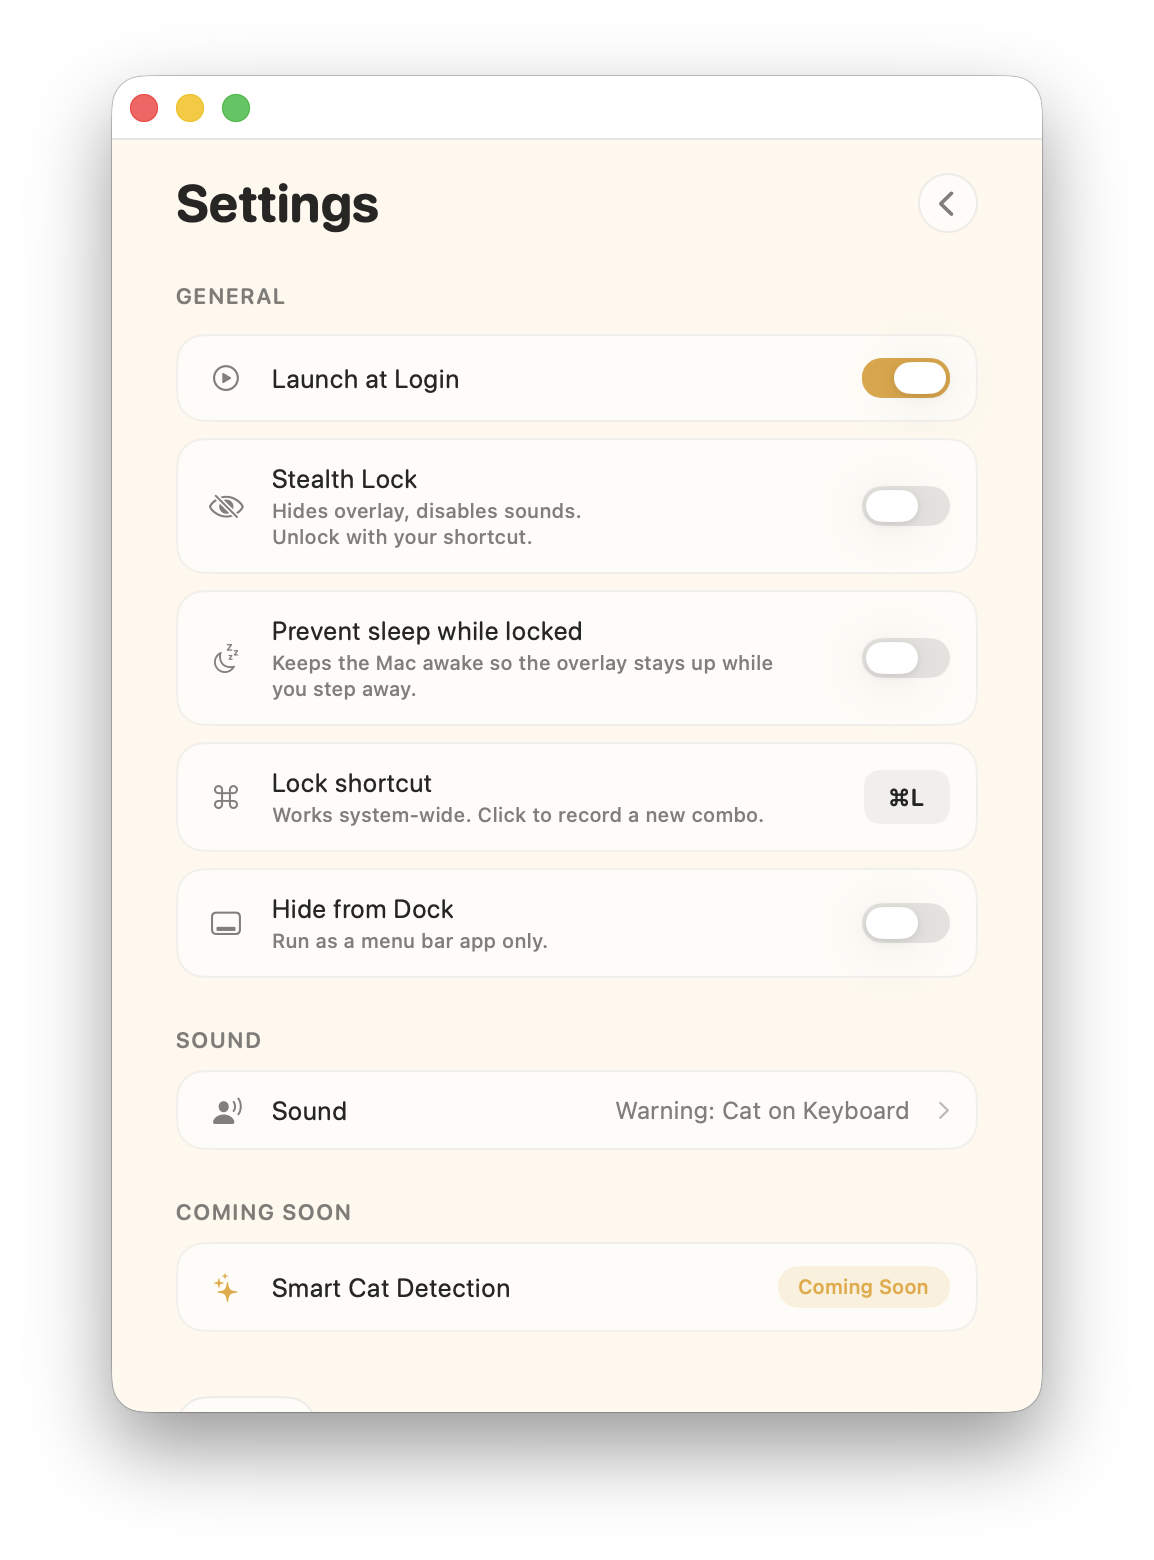
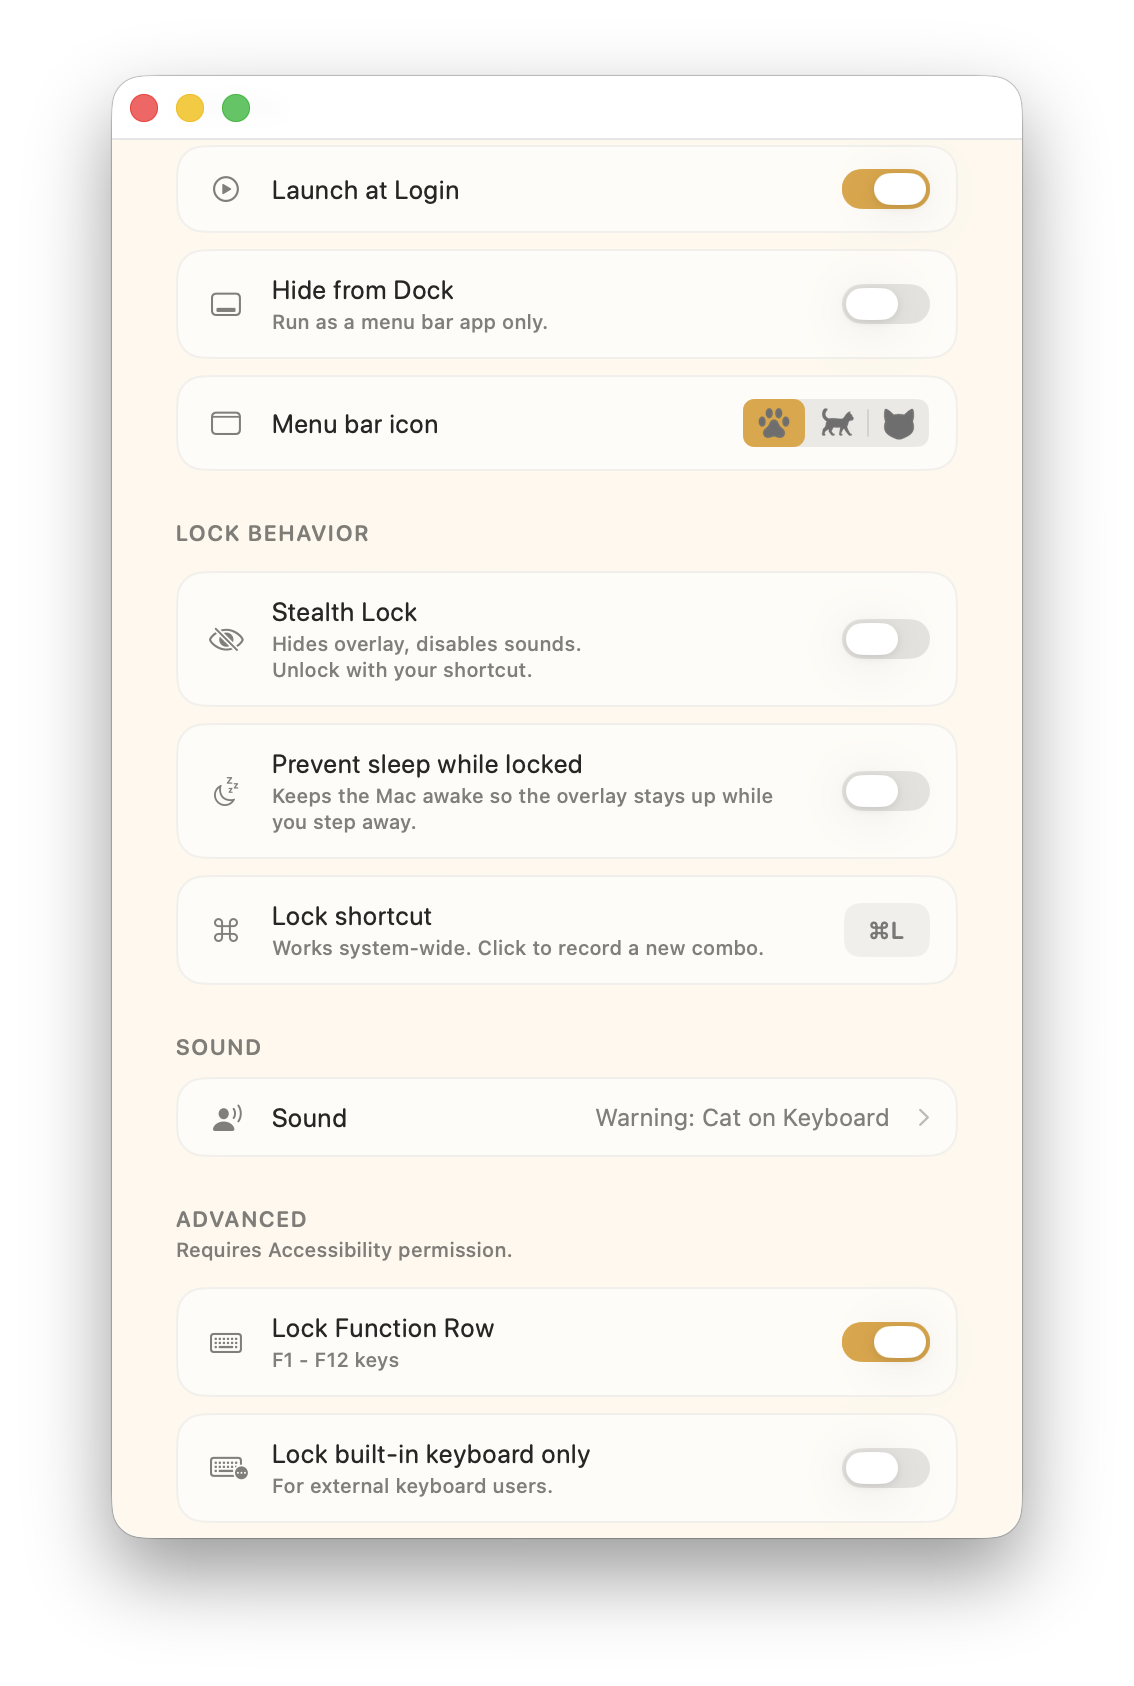
Site prep for v1.3.0 (staged — not live until App Store approval)
- Press: feature the built-in keyboard lock in Short/Medium/Long About blurbs
  (effect only); fix permission line to list both opt-in Accessibility features.
- Press: replace promo tiles with the 6 branded shots; refresh raw UI
  screenshots with new demo captions/dimensions.
- Releases: add v1.3.0 entry (built-in lock + new icon), credit Steffen.
- Roadmap: move built-in lock to Shipped; advance "Up next" to v1.4.
- Version bumped to 1.3.0 across pages; release date left as [LIVE DATE]
  placeholder to fill on approval.

diff --git a/press.html b/press.html
@@ -266,7 +266,7 @@
     </div>
     <div class="fact">
       <div class="label">Latest version</div>
-      <div class="value">1.2.1 (June 11, 2026)</div>
+      <div class="value">1.3.0 ([LIVE DATE])</div>
     </div>
     <div class="fact">
       <div class="label">Platform</div>
@@ -300,20 +300,21 @@
 
   <h3>Short (50 words)</h3>
   <div class="copy-block">
-    <p>Cats Lock is a Mac desktop app that blocks your keyboard with a customizable global shortcut so your cat can walk on it without sending chaos into your work. A friendly overlay shows when locked; Stealth Lock keeps it silent and invisible for meetings. $2.99 one-time, sandboxed, no subscriptions.</p>
+    <p>Cats Lock blocks your Mac's keyboard with a customizable global shortcut so your cat can walk on it without derailing your work. New: lock just the laptop's built-in keyboard while you keep typing on an external. Stealth Lock stays silent for meetings. $2.99 one-time, sandboxed, no subscriptions.</p>
   </div>
 
   <h3>Medium (150 words)</h3>
   <div class="copy-block">
-    <p>Cats Lock is a Mac desktop app for people who share a desk with a cat. A customizable global shortcut (default ⌘L) locks the keyboard from any app, so your cat can settle in for a nap, walk across the keys, or knead the trackpad without sending chaos into your active document. A friendly overlay appears while locked, and a customizable warning sound plays on each blocked keypress so you can hear from the next room when your cat has joined the keyboard. Stealth Lock keeps the lock silent and invisible for meetings or recordings. Optional toggles hide the app from the Dock for menu-bar-only use, and prevent the Mac from sleeping while locked so the overlay stays visible while you step away. Fully sandboxed for the Mac App Store, no account, no analytics, $2.99 one-time. Built by indie developer Todd Alexander for him and his cat to enjoy.</p>
+    <p>Cats Lock is a Mac desktop app for people who share a desk with a cat. A customizable global shortcut (default ⌘L) locks the keyboard from any app, so your cat can settle in for a nap, walk across the keys, or knead the trackpad without sending chaos into your active document. New in version 1.3: if you work on an external keyboard, you can lock just the laptop's built-in keyboard so the cat can claim the warm MacBook while you keep typing, and it unlocks automatically when you unplug the external. A friendly overlay and a customizable warning sound mark each blocked keypress; Stealth Lock keeps the lock silent and invisible for meetings. Optional toggles hide the app from the Dock and prevent the Mac from sleeping while locked. Fully sandboxed for the Mac App Store, no account, no analytics, $2.99 one-time. Built by indie developer Todd Alexander for him and his cat to enjoy.</p>
   </div>
 
   <h3>Long (300 words)</h3>
   <div class="copy-block">
     <p>Cats Lock is a Mac desktop app for people who share a desk with a cat. The interaction is intentionally minimal: one press of a customizable global shortcut (default ⌘L) locks the keyboard from any app, so your cat can stretch out, walk across the keys, or settle in for a nap without sending anything into your active document. While locked, a friendly full-screen overlay shows the lock state, and a customizable warning sound plays on each blocked keypress. Useful as an audible cue from the next room when your cat has joined the keyboard while you're away from the desk, or just pure enjoyable and shareable content.</p>
     <p>Stealth Lock mode swaps that experience for a silent, invisible variant. The keyboard is still blocked, but no overlay appears and no sound plays, which is helpful if you want to lock the keyboard during a meeting, recording, or call without any visual or audio side effect. Unlock always uses the configured shortcut.</p>
+    <p>Version 1.3 adds an external-keyboard mode for a common setup: a laptop on a desk with a separate keyboard and mouse. Turn on Lock built-in keyboard only, and your shortcut locks just the MacBook's own keyboard while the external keeps working, with no overlay and no sound. It is built for the moment a cat decides the warm laptop is the best seat in the house, letting it settle on the built-in keys while you keep working. The mode appears only when an external keyboard is connected, and the built-in unlocks immediately if that keyboard is unplugged, so you are never locked out of your own Mac.</p>
     <p>Two optional toggles round out the experience: Hide from Dock turns Cats Lock into a pure menu-bar app with no Dock icon and no Cmd+Tab presence, and Prevent Sleep While Locked holds the display awake so the overlay stays visible if you step away from the desk. Launch at Login is supported through the system service so the menu bar icon is ready when your Mac boots.</p>
-    <p>Cats Lock is built fully within the App Store sandbox, with no analytics SDK, no account creation, and no telemetry. The core lock needs no special permissions; the only feature that requests Accessibility is optional function-key locking, which stays off unless the user turns it on. It is sold for $2.99 as a one-time purchase with no subscription tier and no upsells. The app launched on the Mac App Store on May 15, 2026.</p>
+    <p>Cats Lock is built fully within the App Store sandbox, with no analytics SDK, no account creation, and no telemetry. The core lock needs no special permissions; the only features that request Accessibility are the optional function-key lock and the built-in-keyboard lock, both of which stay off unless the user turns them on. It is sold for $2.99 as a one-time purchase with no subscription tier and no upsells. The app launched on the Mac App Store on May 15, 2026.</p>
   </div>
 </section>
 
@@ -362,25 +363,29 @@
   <h2>Promo tiles</h2>
   <p style="color: var(--muted); margin: -8px 0 18px;">Branded 16:10 hero images for article leads, App Store roundups, and social previews.</p>
   <div class="screens">
-    <a class="screen" href="assets/screenshots/01-hero.png" download>
-      <img src="assets/screenshots/01-hero.png" alt="Cats Lock main window, unlocked">
-      <div class="meta">01 · Main window (unlocked) · 2880×1800</div>
+    <a class="screen" href="assets/press/tiles/promo-01.png" download>
+      <img src="assets/press/tiles/promo-01.png" alt="Cats Lock promo — Lock the keys, love the cat">
+      <div class="meta">01 · Hero · 2880×1800</div>
     </a>
-    <a class="screen" href="assets/screenshots/02-settings.png" download>
-      <img src="assets/screenshots/02-settings.png" alt="Cats Lock settings panel">
-      <div class="meta">02 · Settings · 2880×1800</div>
+    <a class="screen" href="assets/press/tiles/promo-02.png" download>
+      <img src="assets/press/tiles/promo-02.png" alt="Cats Lock promo — standard lock, keep the Mac awake">
+      <div class="meta">02 · Standard lock · 2880×1800</div>
     </a>
-    <a class="screen" href="assets/screenshots/03-sound.png" download>
-      <img src="assets/screenshots/03-sound.png" alt="Sound picker">
-      <div class="meta">03 · Sound picker · 2880×1800</div>
+    <a class="screen" href="assets/press/tiles/promo-03.png" download>
+      <img src="assets/press/tiles/promo-03.png" alt="Cats Lock promo — Stealth Lock">
+      <div class="meta">03 · Stealth Lock · 2880×1800</div>
     </a>
-    <a class="screen" href="assets/screenshots/04-overlay.png" download>
-      <img src="assets/screenshots/04-overlay.png" alt="Locked overlay">
-      <div class="meta">04 · Locked overlay · 2880×1800</div>
+    <a class="screen" href="assets/press/tiles/promo-04.png" download>
+      <img src="assets/press/tiles/promo-04.png" alt="Cats Lock promo — lock the built-in keyboard">
+      <div class="meta">04 · Built-in keyboard lock · 2880×1800</div>
     </a>
-    <a class="screen" href="assets/screenshots/05-menubar.png" download>
-      <img src="assets/screenshots/05-menubar.png" alt="Menu bar dropdown">
-      <div class="meta">05 · Menu bar · 2880×1800</div>
+    <a class="screen" href="assets/press/tiles/promo-05.png" download>
+      <img src="assets/press/tiles/promo-05.png" alt="Cats Lock promo — lives in the menu bar">
+      <div class="meta">05 · Lives in the menu bar · 2880×1800</div>
+    </a>
+    <a class="screen" href="assets/press/tiles/promo-06.png" download>
+      <img src="assets/press/tiles/promo-06.png" alt="Cats Lock promo — your lock, your way">
+      <div class="meta">06 · Your lock, your way · 2880×1800</div>
     </a>
   </div>
 </section>
@@ -395,7 +400,7 @@
     </a>
     <a class="screen" href="assets/press/raw/02-settings.png" download>
       <img src="assets/press/raw/02-settings.png" alt="Settings panel">
-      <div class="meta">02 · Settings · 1154×1560</div>
+      <div class="meta">02 · Settings · 1134×1686</div>
     </a>
     <a class="screen" href="assets/press/raw/03-sound.png" download>
       <img src="assets/press/raw/03-sound.png" alt="Sound picker">
@@ -407,7 +412,7 @@
     </a>
     <a class="screen" href="assets/press/raw/05-menubar.png" download>
       <img src="assets/press/raw/05-menubar.png" alt="Menu bar dropdown">
-      <div class="meta">05 · Menu bar · 512×650</div>
+      <div class="meta">05 · Menu bar · 629×678</div>
     </a>
   </div>
 </section>

diff --git a/roadmap.html b/roadmap.html
@@ -158,6 +158,7 @@
     <div class="stage-meta">Available now on the Mac App Store</div>
 
     <ul>
+      <li><strong>v1.3.0</strong> ([LIVE DATE]) — lock the built-in keyboard only while an external keeps working, plus a new app icon.</li>
       <li><strong>v1.2.1</strong> (June 11, 2026) — Cmd+Tab lock hardening, guaranteed Stealth Lock escape, smoother audio.</li>
       <li><strong>v1.2.0</strong> (June 8, 2026) — lock function keys (F1-F12), menu bar icon picker.</li>
       <li><strong>v1.1.2</strong> (June 2, 2026) — Siri voice command compatibility, refreshed app icon with proper Dark and Tinted appearance variants.</li>
@@ -170,16 +171,7 @@
   </article>
 
   <article class="stage">
-    <h2>Up next: v1.3</h2>
-    <div class="stage-meta">In progress — lock for real setups</div>
-
-    <ul>
-      <li><strong>Lock built-in keyboard only.</strong> Keep an external keyboard working while the built-in one is locked, so you can keep typing while the cat takes over the laptop. <span class="credit">Requested by Steffen, and echoed by a caller on Elliot In The Morning.</span></li>
-    </ul>
-  </article>
-
-  <article class="stage">
-    <h2>Future: v1.4</h2>
+    <h2>Up next: v1.4</h2>
     <div class="stage-meta">Add-on features: sharper locking and more delight</div>
 
     <ul>

diff --git a/releases.html b/releases.html
@@ -160,6 +160,21 @@
 <section>
 
   <article class="release">
+    <h2>v1.3.0</h2>
+    <div class="meta">[LIVE DATE]</div>
+
+    <h3>New</h3>
+    <ul>
+      <li><strong>Lock just the built-in keyboard.</strong> For people who work on an external keyboard: turn on Lock built-in keyboard only, then lock with your shortcut and only the laptop's built-in keys are blocked while your external keyboard keeps working, with no overlay and no sound. The built-in unlocks the moment you disconnect the external, so you are never stranded. The mode appears only when an external keyboard is connected, and it uses Accessibility permission (the same opt-in as Lock Function Row). <span class="credit">Thanks to Steffen for the request.</span></li>
+    </ul>
+
+    <h3>Improvements</h3>
+    <ul>
+      <li><strong>New app icon.</strong> A cleaner orange cat on a warm soft-sand background, with proper Dark and Tinted variants.</li>
+    </ul>
+  </article>
+
+  <article class="release">
     <h2>v1.2.1</h2>
     <div class="meta">June 11, 2026</div>
 
